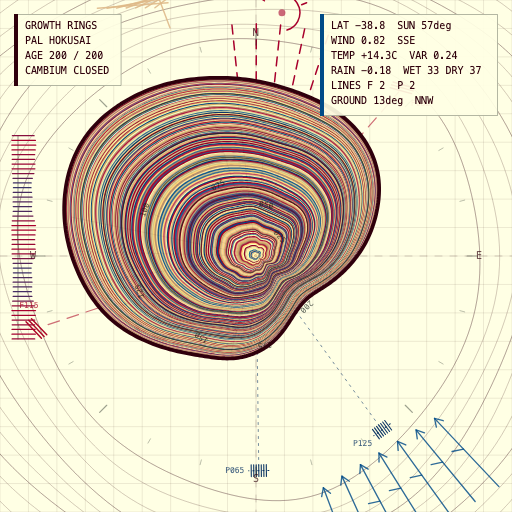
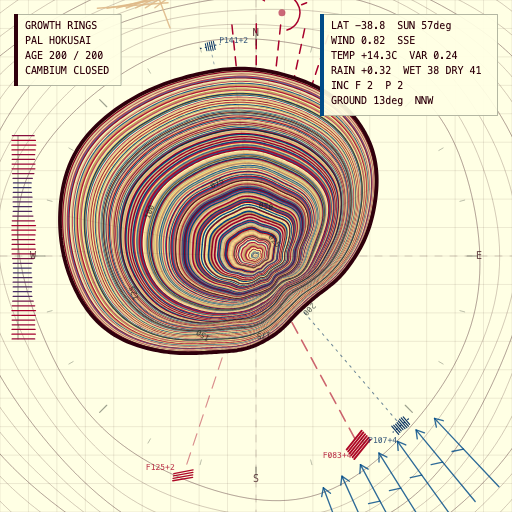
Revsing games as always

diff --git a/pieces/015-growth-rings/index.html b/pieces/015-growth-rings/index.html
@@ -47,7 +47,7 @@
       id="stage"
       tabindex="0"
       role="img"
-      aria-label="Growth Rings: a palette-toned animated trunk cross-section adds annual rings while abstract map symbols show latitude, sun angle, wind exposure, temperature, ground slope, rainfall, and one-year pest and fire incident lines."
+      aria-label="Growth Rings: a palette-toned animated trunk cross-section adds annual rings while abstract map symbols show latitude, sun angle, wind exposure, temperature, ground slope, rainfall, and severity-scaled pest and fire incident lines."
     ></canvas>
 
     <script>
@@ -393,9 +393,9 @@
           }
 
           boundary = smoothLoop(boundary, 2);
-          const incidentsThisYear = damageEvents.filter((event) => event.year === year);
-          if (incidentsThisYear.length) {
-            boundary = applyDamageIncidents(boundary, previous, angles, incidentsThisYear, widthTotal / SAMPLE_COUNT);
+          const activeIncidents = damageEvents.filter((event) => year >= event.year && year < event.year + event.duration);
+          if (activeIncidents.length) {
+            boundary = applyDamageIncidents(boundary, previous, angles, activeIncidents, widthTotal / SAMPLE_COUNT, year);
           }
           boundaries.push(boundary);
           const stressIndex =
@@ -518,18 +518,25 @@
 
       function makeDamageEvent(kind, random, index) {
         const fire = kind === 'fire';
+        const severityRoll = fire ? Math.pow(random(), 0.72) : Math.pow(random(), 0.82);
+        const minSeverity = fire ? 0.32 : 0.08;
+        const maxSeverity = fire ? 0.96 : 0.86;
+        const severity = lerp(minSeverity, maxSeverity, severityRoll);
+        const severityT = clamp((severity - minSeverity) / (maxSeverity - minSeverity), 0, 1);
+        const duration = clamp(Math.round(lerp(1, 5, Math.pow(severityT, 0.72)) + (random() - 0.5) * 1.25), 1, 5);
         return {
           kind,
           year: Math.floor(lerp(13, TARGET_AGE - 13, random())),
           angle: random() * TAU,
-          width: fire ? lerp(0.18, 0.43, random()) : lerp(0.1, 0.3, random()),
-          severity: fire ? lerp(0.34, 0.66, random()) : lerp(0.18, 0.4, random()),
+          width: fire ? lerp(0.24, 0.55, random()) : lerp(0.08, 0.34, random()),
+          duration,
+          severity,
           seed: random() * 1000 + index * 17,
           lane: 0,
         };
       }
 
-      function applyDamageIncidents(boundary, previous, angles, events, meanWidth) {
+      function applyDamageIncidents(boundary, previous, angles, events, meanWidth, year) {
         const out = boundary.slice();
         for (let i = 0; i < out.length; i++) {
           const a = angles[i];
@@ -537,24 +544,31 @@
           let callus = 0;
 
           for (const event of events) {
+            const eventAge = year - event.year;
+            const durationT = event.duration <= 1 ? 0 : eventAge / (event.duration - 1);
+            const timeFalloff = event.kind === 'fire' ? 1 - durationT * 0.5 : 0.72 + 0.28 * Math.sin((durationT + 0.15) * Math.PI);
             const angular = angleDelta(a, event.angle);
             const angularFalloff = Math.exp(-(angular * angular) / (event.width * event.width));
-            const irregular = 0.78 + 0.22 * Math.sin(event.seed + i * 2.17);
+            const irregular = 0.72 + 0.28 * Math.sin(event.seed + i * 2.17 + eventAge * 1.9);
 
             if (event.kind === 'fire') {
-              bite += meanWidth * event.severity * 4.35 * angularFalloff * irregular;
+              const heatPulse = eventAge === 0 ? 1.55 : 0.8;
+              bite += meanWidth * event.severity * 7.2 * heatPulse * timeFalloff * angularFalloff * irregular;
               const edgeDistance = Math.abs(Math.abs(angular) - event.width * 1.05);
               const edgeWidth = Math.max(0.034, event.width * 0.26);
               const edgeFalloff = Math.exp(-(edgeDistance * edgeDistance) / (edgeWidth * edgeWidth));
-              callus += meanWidth * event.severity * 0.78 * edgeFalloff;
+              callus += meanWidth * event.severity * 1.15 * smootherStep((eventAge + 1) / Math.max(2, event.duration)) * edgeFalloff;
             } else {
-              const mottled = angularFalloff * (0.58 + 0.42 * Math.sin(a * 19 + event.seed));
-              bite += meanWidth * event.severity * 2.45 * Math.max(0, mottled) * irregular;
-              callus += meanWidth * event.severity * 0.2 * angularFalloff * Math.max(0, Math.sin(a * 11 - event.seed));
+              const migration = Math.sin(event.seed + eventAge * 1.4) * event.width * 0.22;
+              const movingFalloff = Math.exp(-Math.pow(angleDelta(a, event.angle + migration), 2) / (event.width * event.width));
+              const mottled = movingFalloff * (0.52 + 0.48 * Math.sin(a * 19 + event.seed + eventAge * 2.4));
+              const outbreak = 0.7 + 0.3 * Math.sin((durationT + 0.08) * Math.PI);
+              bite += meanWidth * event.severity * 4.1 * outbreak * Math.max(0, mottled) * irregular;
+              callus += meanWidth * event.severity * 0.34 * movingFalloff * Math.max(0, Math.sin(a * 11 - event.seed + eventAge));
             }
           }
 
-          out[i] = Math.max(previous[i] * 0.985, out[i] - bite + callus);
+          out[i] = Math.max(previous[i] * 0.965, out[i] - bite + callus);
         }
         return smoothLoop(out, 1);
       }
@@ -818,9 +832,10 @@
             y: clamp(rawMark.y, margin, height - margin),
           };
           const rgb = event.kind === 'fire' ? COLORS.fireRgb : COLORS.pestRgb;
+          const severityT = eventSeverityT(event);
 
-          ctx.strokeStyle = rgbaCss(rgb, 0.58);
-          ctx.lineWidth = event.kind === 'fire' ? 1.2 : 1;
+          ctx.strokeStyle = rgbaCss(rgb, lerp(0.42, 0.72, severityT));
+          ctx.lineWidth = event.kind === 'fire' ? lerp(1.05, 1.8, severityT) : lerp(0.75, 1.35, severityT);
           ctx.setLineDash(event.kind === 'fire' ? [12, 8] : [2, 5]);
           ctx.beginPath();
           ctx.moveTo(target.x, target.y);
@@ -828,38 +843,45 @@
           ctx.stroke();
           ctx.setLineDash([]);
 
-          drawIncidentLineCluster(event.kind, mark.x, mark.y, event.angle, markSize, rgb);
+          drawIncidentLineCluster(event, mark.x, mark.y, event.angle, markSize, rgb);
 
           const label = {
             x: clamp(mark.x + side.x * (markSize + 10), margin, width - margin),
             y: clamp(mark.y + side.y * (markSize + 10), margin, height - margin),
           };
           ctx.fillStyle = rgbaCss(rgb, 0.78);
-          ctx.fillText(`${event.kind === 'fire' ? 'F' : 'P'}${String(event.year).padStart(3, '0')}`, label.x, label.y);
+          ctx.fillText(`${event.kind === 'fire' ? 'F' : 'P'}${String(event.year).padStart(3, '0')}+${event.duration}`, label.x, label.y);
         }
         ctx.restore();
       }
 
-      function drawIncidentLineCluster(kind, x, y, angle, size, rgb) {
+      function drawIncidentLineCluster(event, x, y, angle, size, rgb) {
+        const severityT = eventSeverityT(event);
         ctx.save();
         ctx.translate(x, y);
         ctx.rotate(angle + Math.PI / 2);
-        ctx.lineWidth = kind === 'fire' ? 1.45 : 1.1;
+        ctx.lineWidth = event.kind === 'fire' ? lerp(1.2, 2.2, severityT) : lerp(0.9, 1.45, severityT);
         ctx.strokeStyle = rgbCss(rgb);
-        if (kind === 'fire') {
-          for (let i = -1; i <= 1; i++) {
-            const offset = i * size * 0.22;
+        if (event.kind === 'fire') {
+          const lines = 2 + event.duration;
+          const center = (lines - 1) / 2;
+          for (let i = 0; i < lines; i++) {
+            const offset = (i - center) * size * 0.17;
+            const reach = lerp(0.58, 0.92, severityT);
             ctx.beginPath();
-            ctx.moveTo(-size * 0.72 + offset * 0.26, size * 0.34 + offset);
-            ctx.lineTo(size * 0.72 + offset * 0.18, -size * 0.34 + offset);
+            ctx.moveTo(-size * reach + offset * 0.26, size * 0.34 + offset);
+            ctx.lineTo(size * reach + offset * 0.18, -size * 0.34 + offset);
             ctx.stroke();
           }
         } else {
-          for (let i = -3; i <= 3; i++) {
-            const x = i * size * 0.18;
+          const lines = 3 + event.duration + Math.round(severityT * 2);
+          const center = (lines - 1) / 2;
+          for (let i = 0; i < lines; i++) {
+            const x = (i - center) * size * 0.15;
+            const half = size * lerp(0.28, 0.52, severityT) * (0.88 + 0.12 * Math.sin(event.seed + i));
             ctx.beginPath();
-            ctx.moveTo(x, -size * 0.42);
-            ctx.lineTo(x, size * 0.42);
+            ctx.moveTo(x, -half);
+            ctx.lineTo(x, half);
             ctx.stroke();
           }
           ctx.setLineDash([1, 4]);
@@ -870,6 +892,12 @@
           ctx.setLineDash([]);
         }
         ctx.restore();
+      }
+
+      function eventSeverityT(event) {
+        const min = event.kind === 'fire' ? 0.32 : 0.08;
+        const max = event.kind === 'fire' ? 0.96 : 0.86;
+        return clamp((event.severity - min) / (max - min), 0, 1);
       }
 
       function drawCompassTicks(cx, cy, radius) {
@@ -997,7 +1025,7 @@
         ctx.save();
         for (const event of model.damageEvents) {
           const eventAge = age - event.year;
-          if (eventAge < 0 || eventAge > 5.5) continue;
+          if (eventAge < 0 || eventAge > event.duration + 1.25) continue;
           if (event.kind === 'fire') drawFireBarkDamage(radius, boundary, event, age);
           else drawPestBarkDamage(radius, boundary, event, age);
         }
@@ -1006,8 +1034,8 @@
 
       function drawFireBarkDamage(radius, boundary, event, age) {
         const eventAge = age - event.year;
-        const maturity = smootherStep(eventAge / 1.6);
-        const alpha = smootherStep(eventAge / 0.55) * (1 - smootherStep((eventAge - 2.25) / 3.25));
+        const maturity = smootherStep(eventAge / Math.max(1.2, event.duration * 0.58));
+        const alpha = smootherStep(eventAge / 0.45) * (1 - smootherStep((eventAge - event.duration) / 1.25));
         const arc = event.width * lerp(0.95, 1.45, maturity);
         const points = 8;
         ctx.save();
@@ -1028,7 +1056,7 @@
           const t = i / (points - 1);
           const a = event.angle + (t - 0.5) * arc;
           const jag = 0.72 + 0.28 * Math.sin(event.seed + i * 2.31 + age * 0.05);
-          const bite = clamp(radius * event.severity * 0.055 * jag, 6, 22);
+          const bite = clamp(radius * event.severity * 0.085 * jag, 8, 32);
           const r = boundaryRadiusAt(boundary, a) * radius - bite;
           const p = { x: Math.cos(a) * r, y: Math.sin(a) * r };
           ctx.lineTo(p.x, p.y);
@@ -1041,9 +1069,9 @@
 
       function drawPestBarkDamage(radius, boundary, event, age) {
         const eventAge = age - event.year;
-        const maturity = smootherStep(eventAge / 1.5);
-        const alpha = smootherStep(eventAge / 0.55) * (1 - smootherStep((eventAge - 2) / 3.5));
-        const holes = 6 + Math.floor(event.severity * 10);
+        const maturity = smootherStep(eventAge / Math.max(1.2, event.duration * 0.56));
+        const alpha = smootherStep(eventAge / 0.45) * (1 - smootherStep((eventAge - event.duration) / 1.25));
+        const holes = 4 + event.duration + Math.floor(event.severity * 11);
         ctx.save();
         ctx.globalAlpha *= clamp(alpha, 0, 1);
         ctx.strokeStyle = rgbaCss(COLORS.inkRgb, 0.76);
@@ -1158,7 +1186,7 @@
           `WIND ${f.windExposure.toFixed(2)}  ${directionName(f.windFrom)}`,
           `TEMP ${formatSigned(f.temperatureMean, 1)}C  VAR ${f.temperatureVolatility.toFixed(2)}`,
           `RAIN ${formatSigned(formingRing.rainfall, 2)}  WET ${model.weatherSummary.wetYears} DRY ${model.weatherSummary.dryYears}`,
-          `LINES F ${fireCount}  P ${pestCount}`,
+          `INC F ${fireCount}  P ${pestCount}`,
           `GROUND ${Math.round(f.slopeMagnitude)}deg  ${directionName(f.slopeDown)}`,
         ];
         drawTextPlate(width - margin - readoutWidth(forceLines), margin, forceLines, { accent: COLORS.wind, align: 'left' });

diff --git a/pieces/012-happiness-hunter/index.html b/pieces/012-happiness-hunter/index.html
@@ -428,13 +428,13 @@
           } else {
             requestedLane = bestHeroPathLane();
             hero.pathTargetLane = requestedLane;
-            const front = nearestVehicleAheadFor(hero, hero.lane, 170);
-            hero.huntingOpening = requestedLane !== hero.lane || Boolean(front && front.gap < 135);
+            const front = nearestVehicleAheadFor(hero, hero.lane, 125);
+            hero.huntingOpening = requestedLane !== hero.lane || Boolean(front && front.gap < 95);
             shouldSignal = requestedLane !== hero.lane;
             if (requestedLane !== hero.lane) {
               hero.gapTargetSpeed = heroGapTargetSpeed(requestedLane);
-            } else if (front && front.gap < 135) {
-              hero.gapTargetSpeed = Math.min(46, Math.max(hero.desiredSpeed + 2, front.vehicle.speed + 10));
+            } else if (front && front.gap < 95) {
+              hero.gapTargetSpeed = Math.min(45.5, Math.max(hero.desiredSpeed, front.vehicle.speed + 8));
             }
           }
 
@@ -522,7 +522,7 @@
 
           if (vehicle.isHero && shouldSignal) {
             vehicle.signal = direction;
-            vehicle.signalUntil = Math.max(vehicle.signalUntil, t + 0.38);
+            vehicle.signalUntil = Math.max(vehicle.signalUntil, t + 0.25);
           }
           return false;
         }
@@ -555,10 +555,10 @@
 
         function bestHeroPathLane() {
           const current = heroLaneOpportunityScore(hero.lane);
-          const front = nearestVehicleAheadFor(hero, hero.lane, 230);
-          const urgency = front ? clamp((215 - front.gap) / 215, 0, 1) : 0;
+          const front = nearestVehicleAheadFor(hero, hero.lane, 190);
+          const urgency = front ? clamp((170 - front.gap) / 170, 0, 1) : 0;
           const trafficBound = front && front.vehicle.speed < hero.desiredSpeed + 5;
-          const threshold = Math.max(0.25, 4.2 - urgency * 3.8 - (trafficBound ? 2.6 : 0));
+          const threshold = Math.max(0.75, 5.5 - urgency * 4.8 - (trafficBound ? 2.2 : 0));
           let bestLane = hero.lane;
           let bestScore = current;
 
@@ -576,39 +576,37 @@
 
         function heroLaneOpportunityScore(lane) {
           if (!laneExists(lane)) return -Infinity;
-          if (!laneIsOpenAt(lane, hero.s, hero.length + 6)) return -900;
+          if (!laneIsOpenAt(lane, hero.s, hero.length + 7)) return -900;
 
-          const front = nearestVehicleAheadFor(hero, lane, 320);
-          const behind = nearestVehicleBehindFor(hero, lane, 180);
+          const front = nearestVehicleAheadFor(hero, lane, 280);
+          const behind = nearestVehicleBehindFor(hero, lane, 150);
           const obstacle = nearestObstacleAheadFor(hero, lane, 330);
-          const frontGap = front ? front.gap : 320;
+          const frontGap = front ? front.gap : 280;
           const frontSpeed = front ? front.vehicle.speed : 46;
           const obstacleGap = obstacle ? obstacle.gap : 330;
           const opening = laneOpeningSlack(hero, lane, front, behind);
-          const blockedPenalty = Math.max(0, -opening) * 1.1;
+          const blockedPenalty = Math.max(0, -opening) * 1.75;
           const rearPressure = behind
-            ? Math.max(0, behind.vehicle.speed - hero.speed) * 2.1 + Math.max(0, 24 - behind.gap) * 0.45
+            ? Math.max(0, behind.vehicle.speed - hero.speed) * 3.2 + Math.max(0, 32 - behind.gap) * 0.8
             : 0;
-          const mergeBonus = lane === hero.lane ? 0 : canMerge(hero, lane) ? 34 : 7;
+          const mergeBonus = lane === hero.lane || canMerge(hero, lane) ? 20 : 0;
 
           return (
-            Math.min(frontGap, 285) * 0.68 +
-            clamp(frontSpeed, 16, 46) * 3.05 +
+            Math.min(frontGap, 240) * 0.58 +
+            clamp(frontSpeed, 16, 46) * 2.7 +
             Math.min(obstacleGap, 300) * 0.33 +
             mergeBonus -
             blockedPenalty -
             rearPressure -
-            Math.abs(lane - hero.lane) * 2.4
+            Math.abs(lane - hero.lane) * 3.5
           );
         }
 
         function laneOpeningSlack(vehicle, lane, ahead, behind) {
           const front = ahead ?? nearestVehicleAheadFor(vehicle, lane, 160);
           const rear = behind ?? nearestVehicleBehindFor(vehicle, lane, 160);
-          const aheadScale = vehicle.isHero ? 0.64 : 0.82;
-          const behindScale = vehicle.isHero ? 0.72 : 1;
-          const aheadSlack = front ? front.gap - safeGap(vehicle, front.vehicle) * aheadScale : 140;
-          const behindNeed = rear ? mergeBehindNeed(vehicle, rear.vehicle) * behindScale : 0;
+          const aheadSlack = front ? front.gap - safeGap(vehicle, front.vehicle) * 0.82 : 140;
+          const behindNeed = rear ? mergeBehindNeed(vehicle, rear.vehicle) : 0;
           const behindSlack = rear ? rear.gap - behindNeed : 110;
           return Math.min(aheadSlack, behindSlack);
         }
@@ -729,10 +727,10 @@
 
           if (vehicle.stoppedForObstacle) targetSpeed = Math.min(targetSpeed, 1.5);
 
-          const accel = vehicle.isHero ? (hero.huntingOpening ? 11.2 : 4.8) : vehicle.accel ?? 3.4;
+          const accel = vehicle.isHero ? (hero.huntingOpening ? 9.4 : 4.8) : vehicle.accel ?? 3.4;
           const brake = vehicle.isHero
             ? hero.gapTargetSpeed != null && hero.gapTargetSpeed < hero.speed
-              ? 11.6
+              ? 10.8
               : 8.6
             : vehicle.brake ?? 9.4;
           const delta = targetSpeed - vehicle.speed;
@@ -1103,7 +1101,6 @@
         function vehicleClaimsLane(vehicle, lane) {
           if (vehicle.exiting) return false;
           if (vehicle.lane === lane) return true;
-          if (vehicle.isHero && vehicle.signal && lane === vehicle.lane + vehicle.signal) return true;
           const drawLane = vehicle.drawLane ?? vehicle.lane;
           return Math.abs(drawLane - lane) < 0.62;
         }

diff --git a/manifest.js b/manifest.js
@@ -119,7 +119,7 @@ window.HYPERGAL_MANIFEST = {
       "year": 2026,
       "type": "interactive",
       "thumbnail": "thumbnail.png",
-      "description": "A trunk cross-section that grows toward 200 years one ring at a time. Latitude, solar angle, wind exposure, temperature, rainfall, and ground slope push the cambium out of symmetry; one-year fire and pest incidents are marked as abstract chart lines and cut that year's growth record."
+      "description": "A trunk cross-section that grows toward 200 years one ring at a time. Latitude, solar angle, wind exposure, temperature, rainfall, and ground slope push the cambium out of symmetry; severity-scaled fire and pest incidents are marked as abstract chart lines and deform 1-5 years of growth."
     }
   ]
 };

diff --git a/pieces/015-growth-rings/README.md b/pieces/015-growth-rings/README.md
@@ -10,9 +10,10 @@ The growth model is biased by visible and invisible forces:
 - Temperature, yearly rainfall, droughts, and wet years change annual ring width.
 - Each new ring randomly selects an opaque palette swatch and flat tone variant.
 - Ground slope adds reaction wood toward the downhill side.
-- Pest and fire are one-year incidents, pre-marked with abstract chart lines.
-  When the growth front reaches one, that year boundary is cut or compressed and
-  the bark briefly records bore marks or char before later rings grow over it.
+- Pest and fire are severity-scaled incidents, pre-marked with abstract chart
+  lines. Each one affects 1-5 years of growth: minor incidents leave narrow
+  kinks, severe incidents compress multiple rings and deform the bark while
+  later rings grow over the record.
 
 Those forces are drawn as abstract field-map symbols around the trunk. Click or
 press Enter/Space to reseed the specimen.